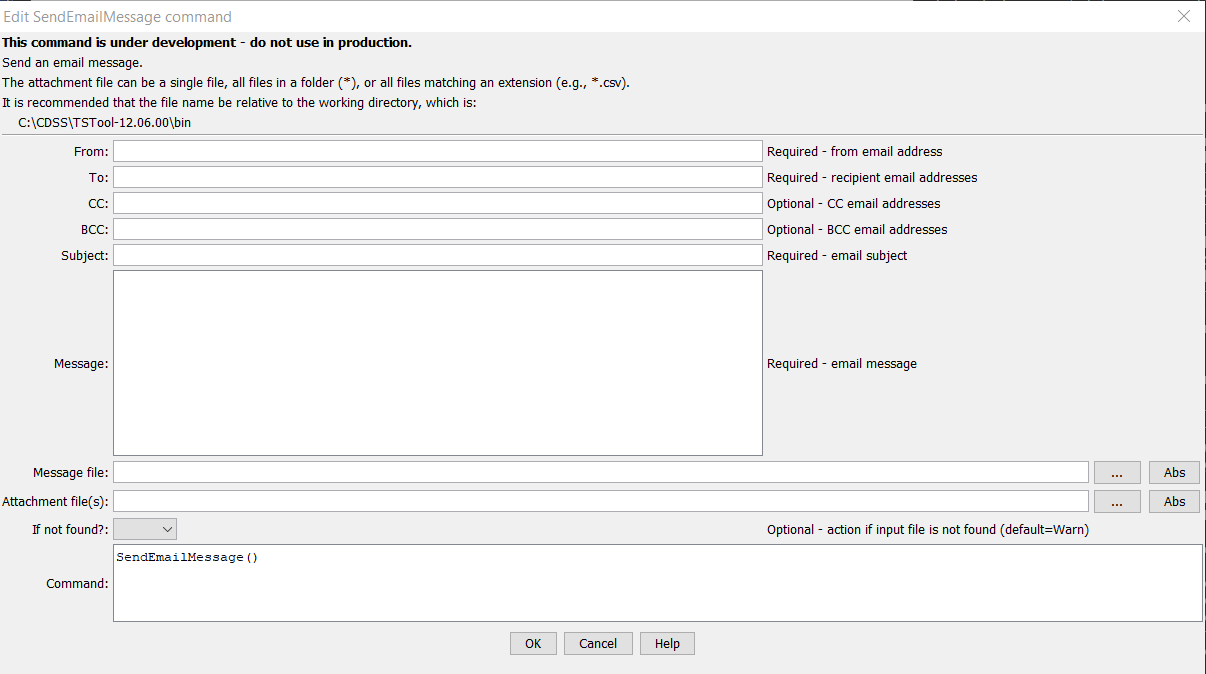
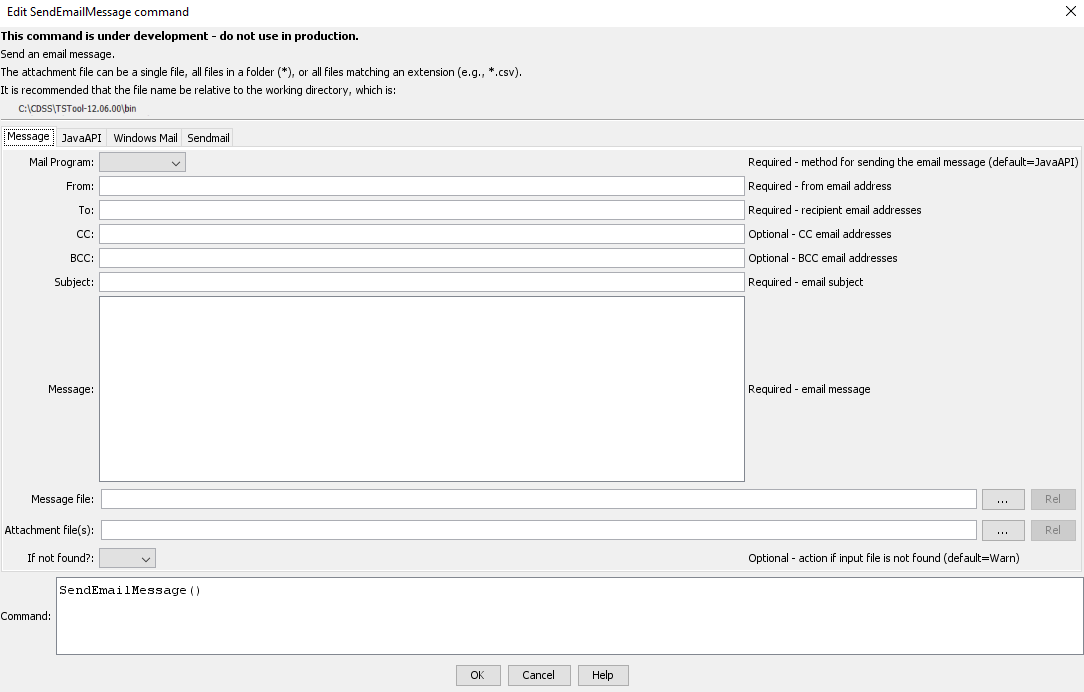
Added initial changes for the SendEmailMessage command documentation

diff --git a/mkdocs-project/docs/command-ref/SendEmailMessage/SendEmailMessage.md b/mkdocs-project/docs/command-ref/SendEmailMessage/SendEmailMessage.md
@@ -3,6 +3,8 @@
 * [Overview](#overview)
 * [Command Editor](#command-editor)
 * [Command Syntax](#command-syntax)
+* [SMTP Passwords](#smtp-passwords)
+* [Common SMTP Servers](#common-smtp-servers)
 * [Examples](#examples)
 * [Troubleshooting](#troubleshooting)
 * [See Also](#see-also)
@@ -11,21 +13,34 @@
 
 ## Overview ##
 
-**This command is under development.  Do not use in production.**
+**This command is under development. Do not use in production.**
 
-The `SendEmailMessage` command sends an email message.
+The `SendEmailMessage` command sends an email message. There are three proposed methods for doing so:
+
+  * The built-in JavaAPI - TSTool will utilize the Java Mail package to send a message.
+  * Windows Mail - **Not yet implemented** - TSTool will separately use the Microsoft Windows Mail application
+  to send a message.
+  * Sendmail - **Not yet implemented** - TSTool will separately use the Sendmail internetwork routing facility
+  to send a message.
+
+There are currently four main tabs as a part of the `SendEmailMessage` command. The Message tab, where the main
+email message is constructed. 
 
 ## Command Editor ##
 
-The following dialog is used to edit the command and illustrates the syntax of the command.
+The following dialog is used to edit the command and illustrates the syntax for the command.
 
-**<p style="text-align: center;">
 ![SendEmailMessage](SendEmailMessage.png)
-</p>**
 
-**<p style="text-align: center;">
-`SendEmailMessage` Command Editor (<a href="../SendEmailMessage.png">see also the full-size image</a>)
-</p>**
+<p style="text-align: center;">
+<b>SendEmailMessage</b> Command Editor for Message Parameters (<a href="../SendEmailMessage.png">see also the full-size image</a>)
+</p>
+
+![SendEmailMessageJavaAPI](SendEmailMessageJavaAPI.png)
+
+<p style="text-align: center;">
+<b>SendEmailMessage</b> Command Editor for JavaAPI Parameters (<a href="../SendEmailMessageJavaAPI.png">see also the full-size image</a>)
+</p>
 
 ## Command Syntax ##
 
@@ -34,13 +49,81 @@ The command syntax is as follows:
 ```text
 SendEmailMessage(Parameter="Value",...)
 ```
-**<p style="text-align: center;">
-Command Parameters
-</p>**
+<p style="text-align: center;">
+<b>Message Command Parameters</b>
+</p>
 
-|**Parameter**&nbsp;&nbsp;&nbsp;&nbsp;&nbsp;&nbsp;&nbsp;&nbsp;&nbsp;&nbsp;&nbsp;|**Description**|**Default**&nbsp;&nbsp;&nbsp;&nbsp;&nbsp;&nbsp;&nbsp;&nbsp;&nbsp;&nbsp;&nbsp;&nbsp;&nbsp;&nbsp;&nbsp;&nbsp;&nbsp;&nbsp;&nbsp;&nbsp;&nbsp;&nbsp;&nbsp;&nbsp;&nbsp;&nbsp;&nbsp;|
-|--------------|-----------------|-----------------|
-|`From`<br>**required**|From email address, can be specified with `${Property}`|None - must be specified.|
+| **Parameter**&nbsp;&nbsp;&nbsp;&nbsp;&nbsp;&nbsp;&nbsp;&nbsp;&nbsp;&nbsp;&nbsp; | **Description** | **Default** |
+|---------------|-----------------|-----------------|
+| `Mail Program`<br>**required** | Method to be used for sending email:<br><ul><li>`JavaAPI` - Use the Java email package</li><li>`Sendmail` - Use the Sendmail email routing facility. **Not yet implemented**</li><li>`WindowsMail` - Use Windows Mail. **Not yet implemented**</li></ul> | `JavaAPI` |
+|`From`<br>**required** | From email address, can be specified with `${Property}` | None - must be specified. |
+| `To`<br>**required** | To email address, can be specified with `${Property}`. **Multiple To addresses will be supported in the future** | None - must be specified. |
+| `CC` | One or more Carbon Copy recipients, separated by a comma. | None - must be specified. |
+| `BCC` | One or more Blind Carbon Copy recipients, separated by a comma. | None - must be specified. |
+| `Subject` | Email subject. | None - must be specified. |
+| `Message` | Email message to send. | Required if `Message file` is not given. |
+| `Message file` | Email message to send from a file. | Required if `Message` is not given. **Not yet implemented** |
+| `Attachment file(s)` | File to be added to email message. **Multiple files will be supported in the future** | None - must be specified. |
+| `If not found?` | Action if input file is not found. | `Warn` |
+
+<hr>
+<p style="text-align: center;">
+<b>JavaAPI Command Parameters</b>
+</p>
+
+| **Parameter**&nbsp;&nbsp;&nbsp;&nbsp;&nbsp;&nbsp;&nbsp;&nbsp;&nbsp;&nbsp;&nbsp; | **Description** | **Default** |
+| ----- | ----- | ----- |
+| `SMTP Server`<br>**required** | The SMTP server to connect to. | None - must be specified. |
+| `SMTP Account`<br>**required** | The SMTP account ID to connect to the server. **Not yet implemented** | None - must be specified. |
+| `SMTP Password`<br>**required** | The SMTP account password for authentication. **NOTE:** See the [SMTP Passwords](#smtp-passwords) section for more information on how passwords are handled. | None - must be specified. |
+
+## SMTP Passwords ##
+
+Password security and protection is a high priority when using TSTool. Sending an email using an SMTP server requires
+authentication in the form of a user account ID and password. For example, to send an email from a Gmail account, the
+account's username and password is needed by TSTool to send. To help protect user credentials, as of now the
+`SendEmailMessage` command will not do anything with a user-entered account ID. Instead, TSTool will use the internal
+**.smtp.cfg** file, which can be signified to use by entering `smtp.cfg` in the `SMTPPassword` text area. SMTP Password
+will take the actual password in future updates of the `SendEmailMessage` Command, but for now, this field **must** be
+`smtp.cfg`. This file is similar to
+the PostgreSQL
+[.pgpass](https://www.postgresql.org/docs/current/libpq-pgpass.html) file, which will contain `<userName>:<userPassword>`
+and will be located in the user's AppData file. Even though the file will store the username and password in plain text,
+the security of both the AppData and the user's Windows account will be utilized. 
+
+The script file **create-smtp-cfg.sh** in the scripts/ folder will create the file needed by the command. To run and create
+the **.smtp.cfg**, open a terminal and change directories to the scripts/ folder and use the command `./create-smtp-cfg.sh
+<username> <password>`. This will create the **.smtp.cfg** file and can now be used by TSTool. **NOTE:** Some passwords
+contain special characters, which the terminal interprets as separately from the password, even if the password
+is surrounded by quotes. See [Troubleshooting](#troubleshooting) for more help.
+
+In TSTool, after message creation has taken place under the `Message` tab, an example using the JavaAPI and sending an
+email through the Gmail SMTP server would look like this.
+
+![SendEmailMessageExample1](SendEmailMessageExample1.png)
+
+**NOTE:** Google has a feature called app-specific passwords. It is a 16-digit passcode that gives apps access to the
+Google account, so that the main password won't need to be used. It can only be used with account that have 2-Step
+Verification. Both the use of the app-specific password (and therefore 2-Step Verification) is highly recommended for
+another layer of security. Visit the [Google Account Help](https://support.google.com/accounts/answer/185833?hl=en)
+page for steps to create and use the passwords.
+
+## Common SMTP Servers ##
+
+The following are common and/or popular SMTP servers for outgoing messages.
+
+| Provider | Server name |
+| ----- | ----- |
+| `Googlemail - Gmail` | `smtp.gmail.com` |
+| `Outlook.com` | `smtp.live.com` |
+| `Office365.com` | `smtp.office365.com` |
+| `Yahoo Mail` | `smtp.mail.yahoo.com` |
+| `AOL.com` | `smtp.aol.com` |
+| `AT&T` | `smtp.att.yahoo.com` |
+| `Hotmail` | `smtp.live.com` |
+| `Comcast` | `smtp.comcast.net` |
+| `Verizon` | `outgoing.verizon.net` |
+| `Mail.com` | `smtp.mail.com` |
 
 ## Examples ##
 
@@ -48,6 +131,36 @@ See the [automated tests](https://github.com/OpenCDSS/cdss-app-tstool-test/tree/
 
 ## Troubleshooting ##
 
+### Escaped Characters ###
+
+When running a script with special characters given as an argument, the shell will see them as special and will attempt
+to execute each one apart from the password. Below is a list of characters that might need to be escaped. More characters
+will be added as necessary if more are found in the future.
+
+| Character | Unicode | Name |
+| ----- | ----- | ----- |
+| `	| U+0060 (Grave Accent)	| Backtick
+| ~	| U+007E | Tilde
+| !	| U+0021 | Exclamation mark
+| #	| U+0023 Number sign | Hash
+| $	| U+0024 | Dollar sign
+| &	| U+0026 | Ampersand
+| *	| U+002A | Asterisk
+| (	| U+0028 | Left Parenthesis
+| )	| U+0029 | Right Parenthesis
+|   | U+0009 | Tab (⇥)
+| {	| U+007B Left Curly Bracket | Left brace
+| [	| U+005B | Left Square Bracket
+| \|	| U+007C Vertical Line | Vertical bar
+| \	| U+005C | Reverse Solidus | Backslash
+| ;	| U+003B | Semicolon
+| '	| U+0027 Apostrophe | Single quote
+| "	| U+0022 Quotation Mark | Double quote
+| ↩	| U+000A Line Feed | Newline
+| <	| U+003C | Less than
+| >	| U+003E | Greater than
+| ?	| U+003F | Question mark
+|   | U+0020 | Space
 ## See Also ##
 
 * [`Message`](../Message/Message.md) command
